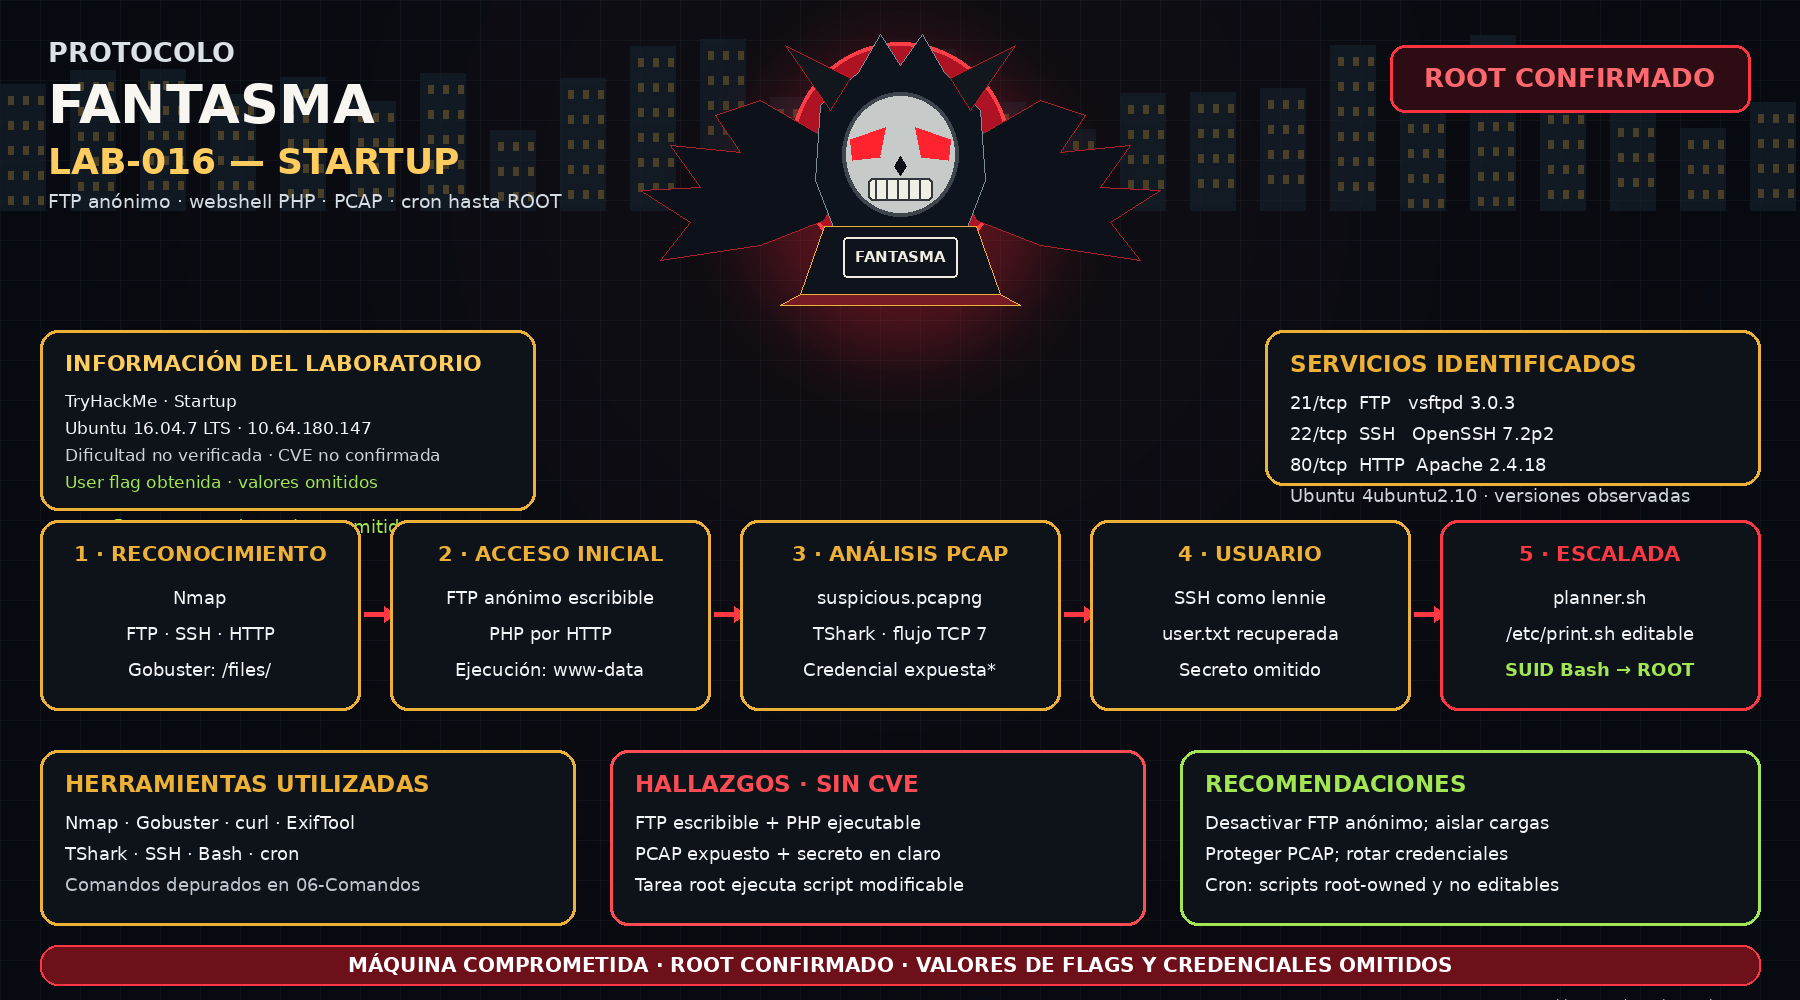
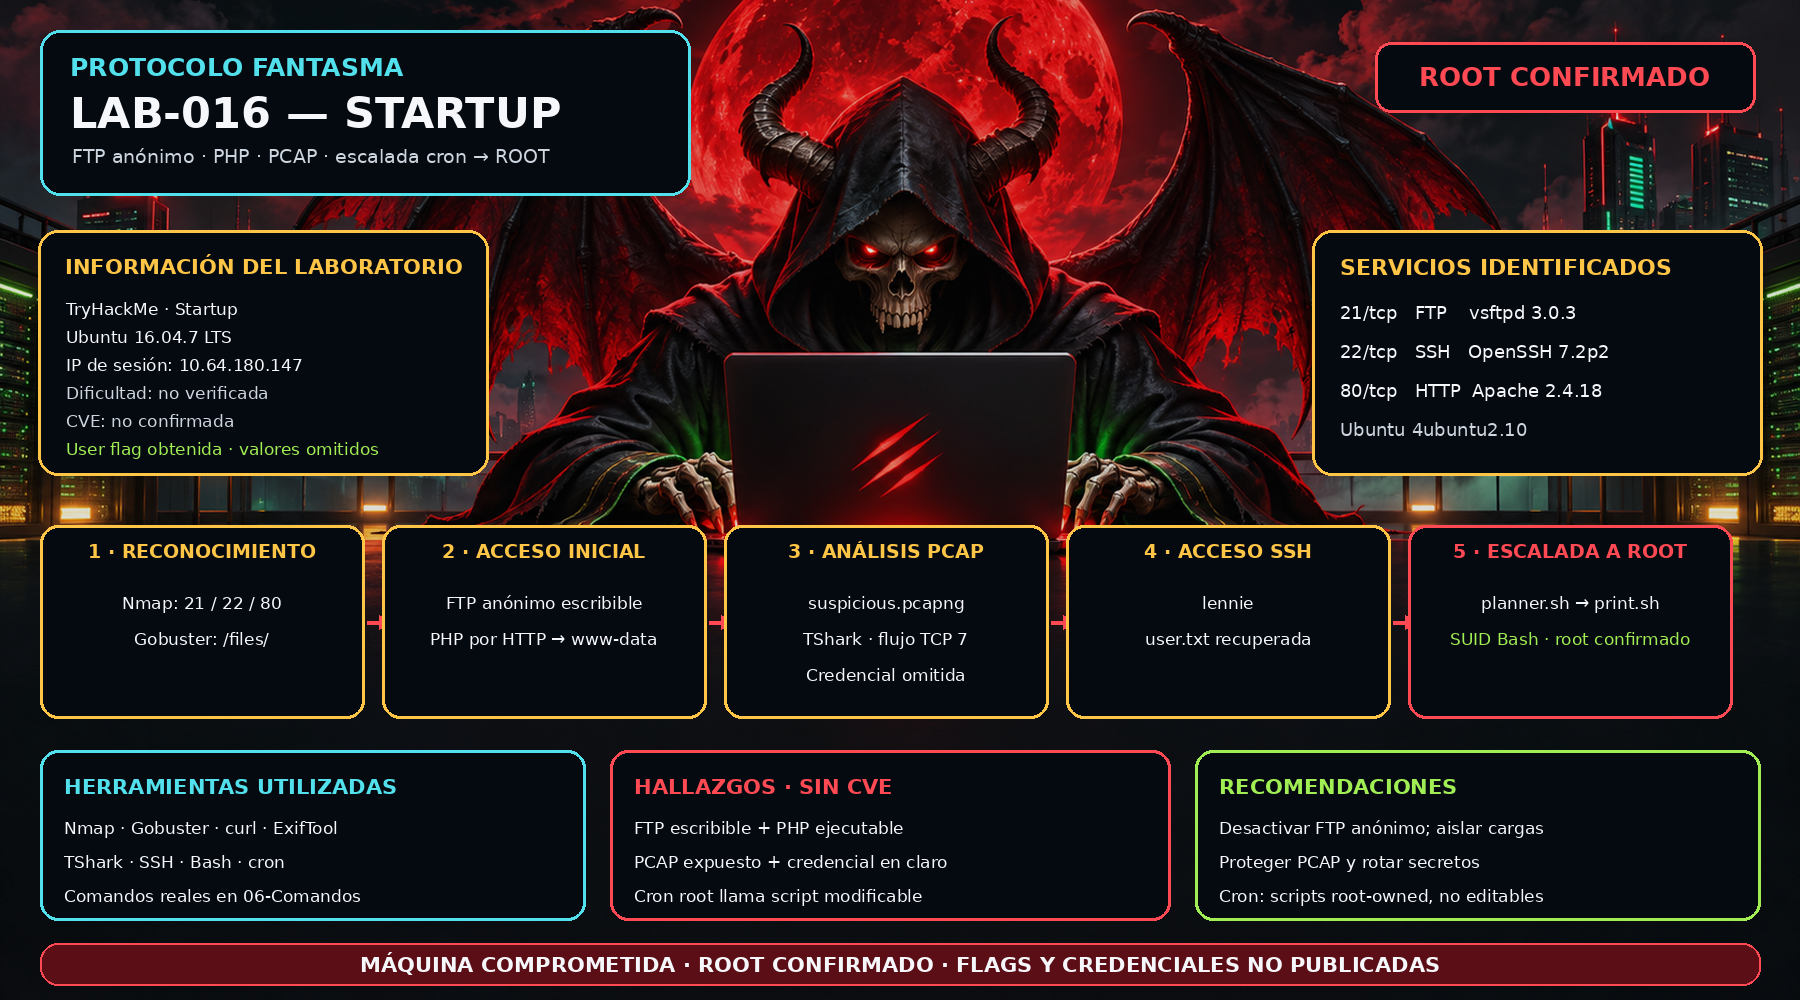
Improve LAB-016 Startup cover and repo description

diff --git a/README.md b/README.md
@@ -1,8 +1,8 @@
-![Portada oficial FANTASMA — LAB-016 Startup. Infografía panorámica cyberpunk en paleta verde ácido, ámbar, rojo y negro. Una calavera demoníaca encapuchada con cuernos y ojos rojos, alas de murciélago, luna roja y portátil FANTASMA preside la ruta. La portada identifica TryHackMe, la dificultad no verificada en esta sesión, Ubuntu 16.04.7, la IP dinámica 10.64.180.147 y los servicios FTP 21, SSH 22 y HTTP 80 con versiones observadas. Resume FTP anónimo, webshell PHP, análisis de PCAP, SSH como lennie y escalada por tarea programada y script modificable hasta root. Incluye herramientas, mitigaciones y estado: root confirmado; valores de credenciales y flags omitidos.](04-Imagenes/LAB-016-STARTUP.png)
+![Portada profesional FANTASMA — LAB-016 Startup. Infografía panorámica con ilustración cyberpunk de una calavera demoníaca encapuchada, cuernos, ojos rojos, alas de murciélago, luna roja y portátil. Paleta negro, carmesí, cian, ámbar y verde. Paneles legibles muestran TryHackMe, Ubuntu 16.04.7, IP dinámica de sesión, dificultad no verificada, servicios y versiones reales, cadena FTP anónimo a webshell PHP, análisis PCAP, SSH como lennie y escalada cron con script modificable a root. Incluye herramientas y mitigaciones; confirma root y omite respuestas, credenciales y flags.](04-Imagenes/LAB-016-STARTUP.png)
 
 # 😈 FANTASMA | LAB-016 — STARTUP
 
-**TryHackMe | FANTASMA LAB-016 STARTUP | Parrot OS, FTP anónimo, carga PHP, análisis PCAP, acceso SSH como lennie, escalada mediante cron y script modificable | Máquina comprometida, ROOT confirmado | Valores de credenciales y flags omitidos**
+**TryHackMe | FANTASMA LAB-016 STARTUP | Parrot OS, Nmap, FTP anónimo escribible, Gobuster, webshell PHP, análisis PCAP, SSH como lennie, escalada cron a ROOT | Máquina comprometida, ROOT confirmado | User flag recuperada; valores omitidos, root.txt no mostrado**
 
 ## Información del laboratorio
 

diff --git a/04-Imagenes/README.md b/04-Imagenes/README.md
@@ -2,6 +2,6 @@
 
 La portada oficial está en `LAB-016-STARTUP.png` y aparece al comienzo del README principal.
 
-Infografía panorámica 1800 × 1000 en paleta negro, rojo, ámbar y verde ácido. Incluye el avatar FANTASMA ilustrado con calavera encapuchada, cuernos, ojos rojos, alas de murciélago, luna roja y portátil FANTASMA. Resume plataforma, máquina, IP dinámica de esta sesión, dificultad no verificada, sistema operativo, servicios y versiones observadas, fases reales del compromiso, herramientas y recomendaciones.
+Infografía panorámica 1800 × 1000 en paleta negro, carmesí, cian, ámbar y verde. Incluye la ilustración FANTASMA con calavera encapuchada, cuernos, ojos rojos, alas de murciélago, luna roja y portátil. Resume plataforma, máquina, IP dinámica de esta sesión, dificultad no verificada, sistema operativo, versiones de servicios observadas, fases reales del compromiso, herramientas y recomendaciones.
 
 La portada indica que root fue confirmado, que se recuperó la User Flag y que los valores de flags, credenciales y PCAP se omiten. No muestra la respuesta del cuestionario.
